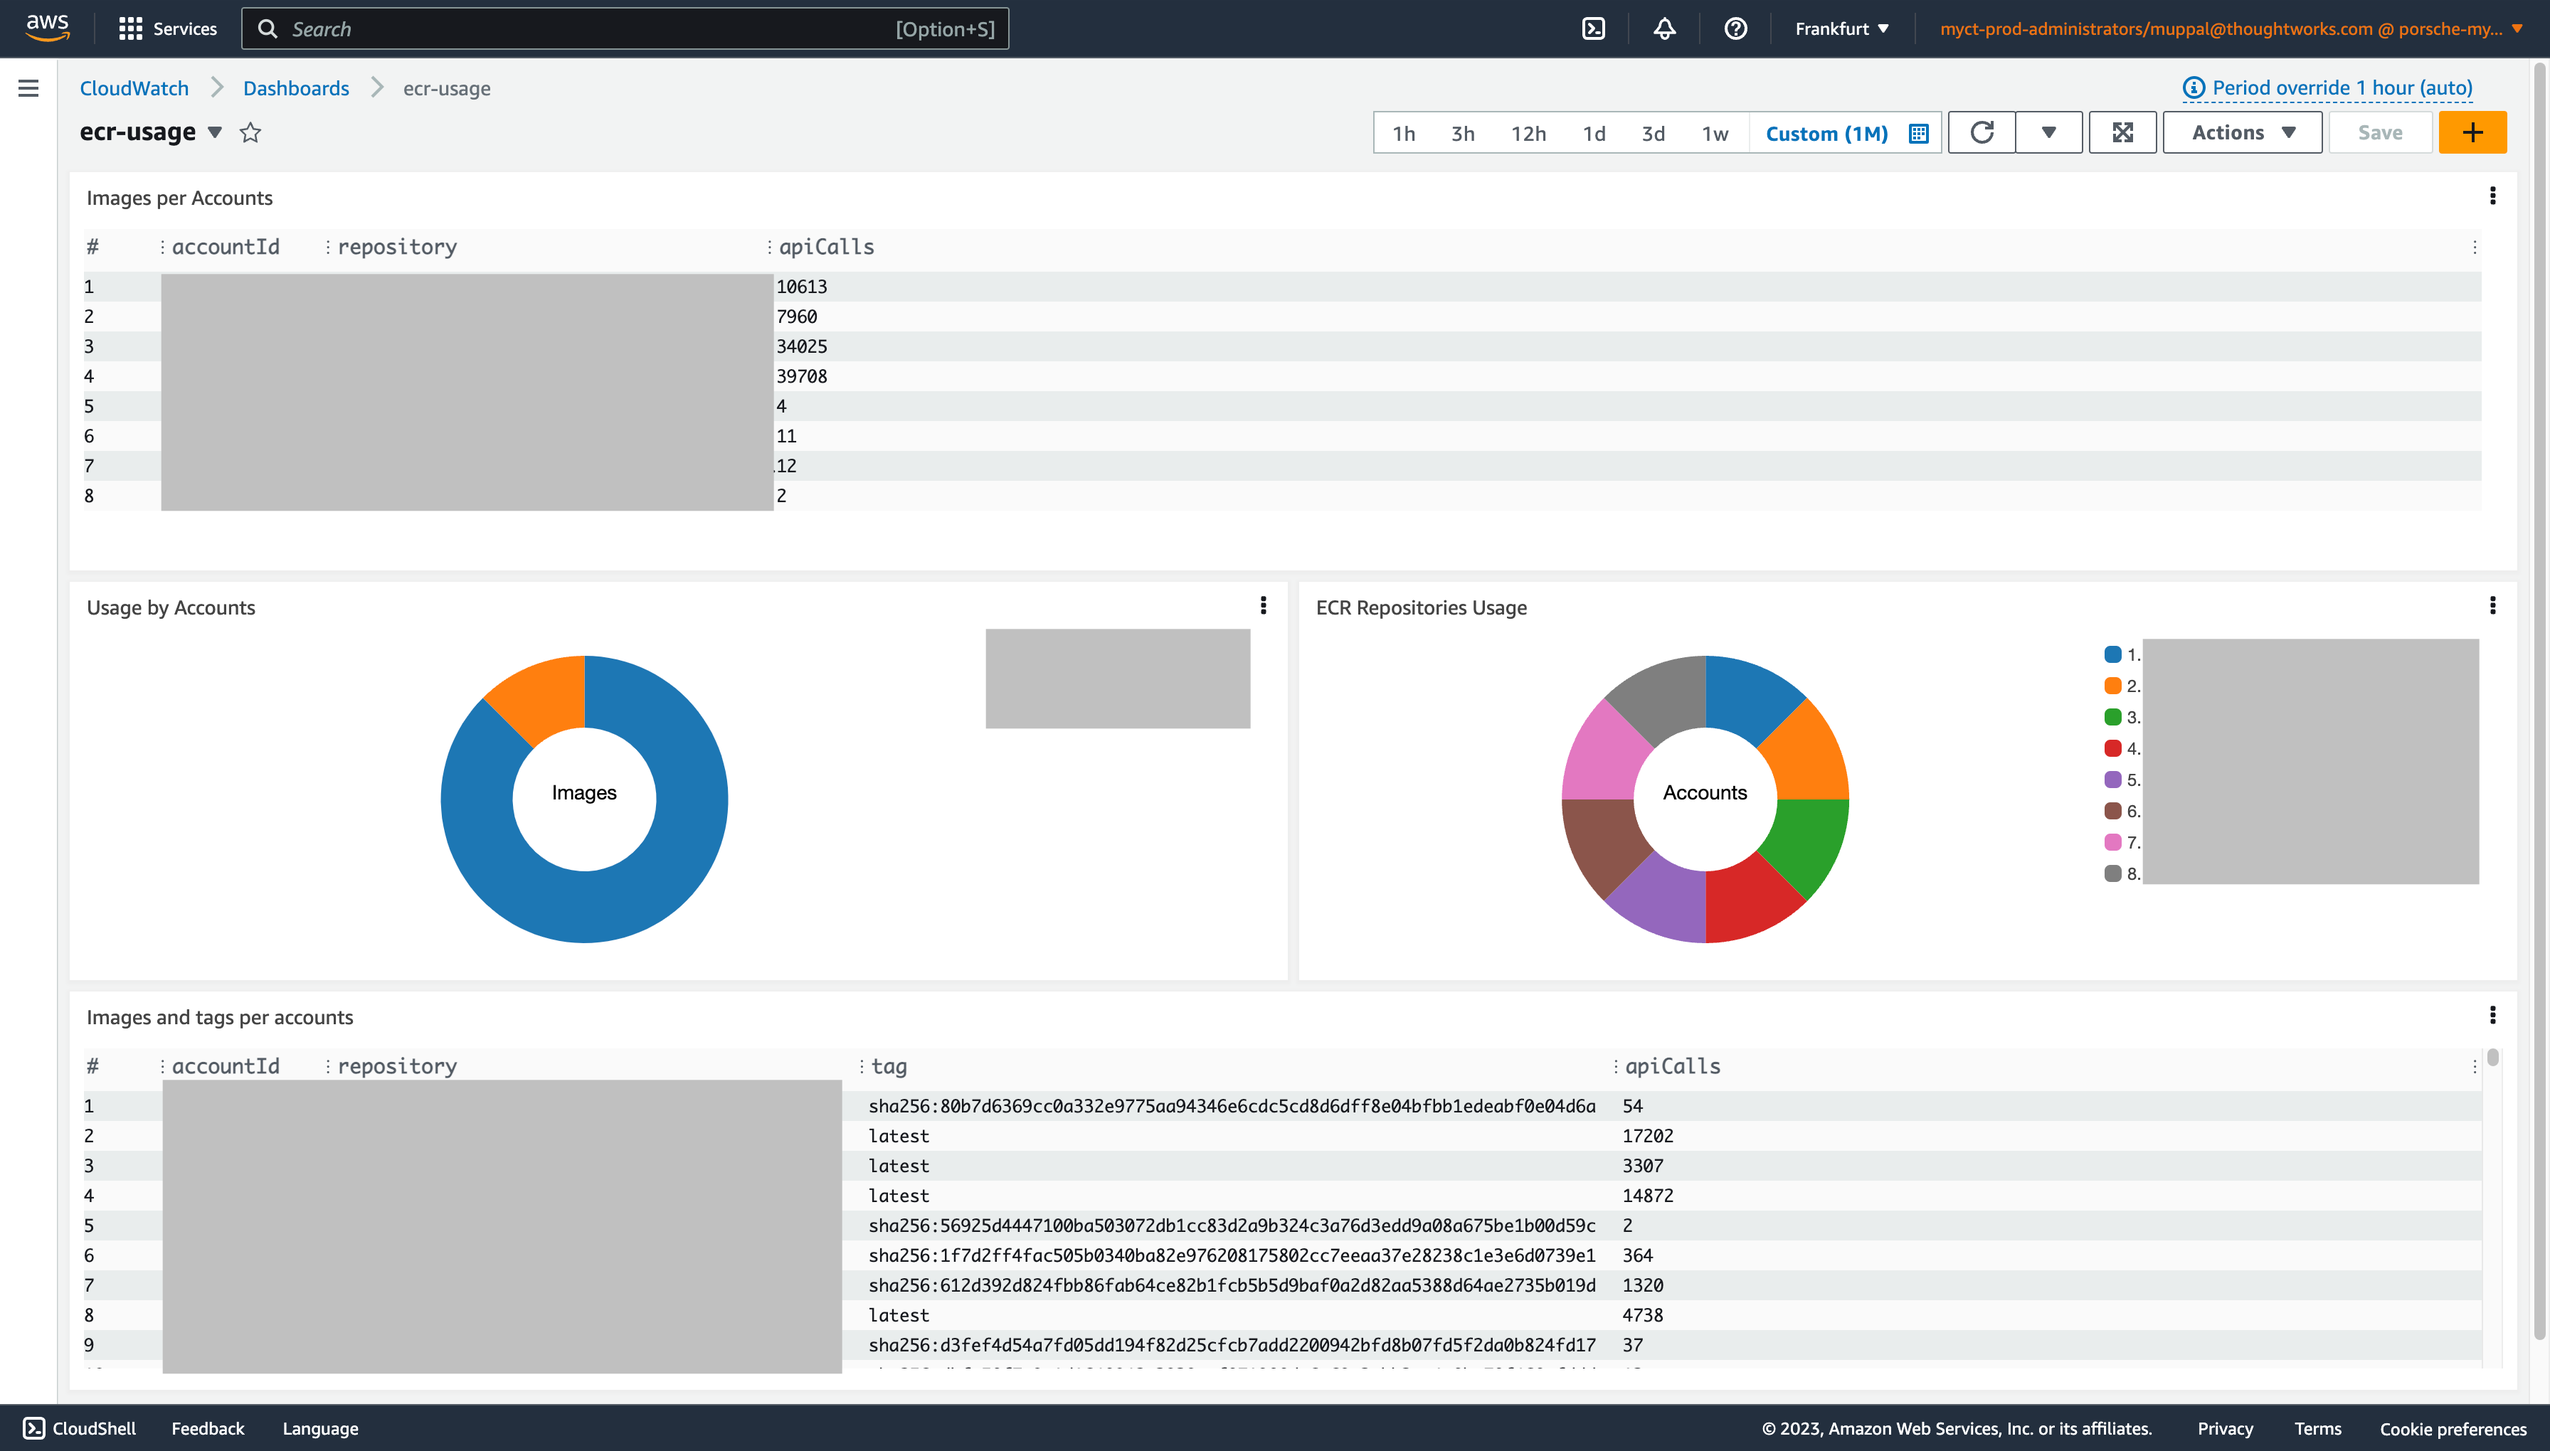
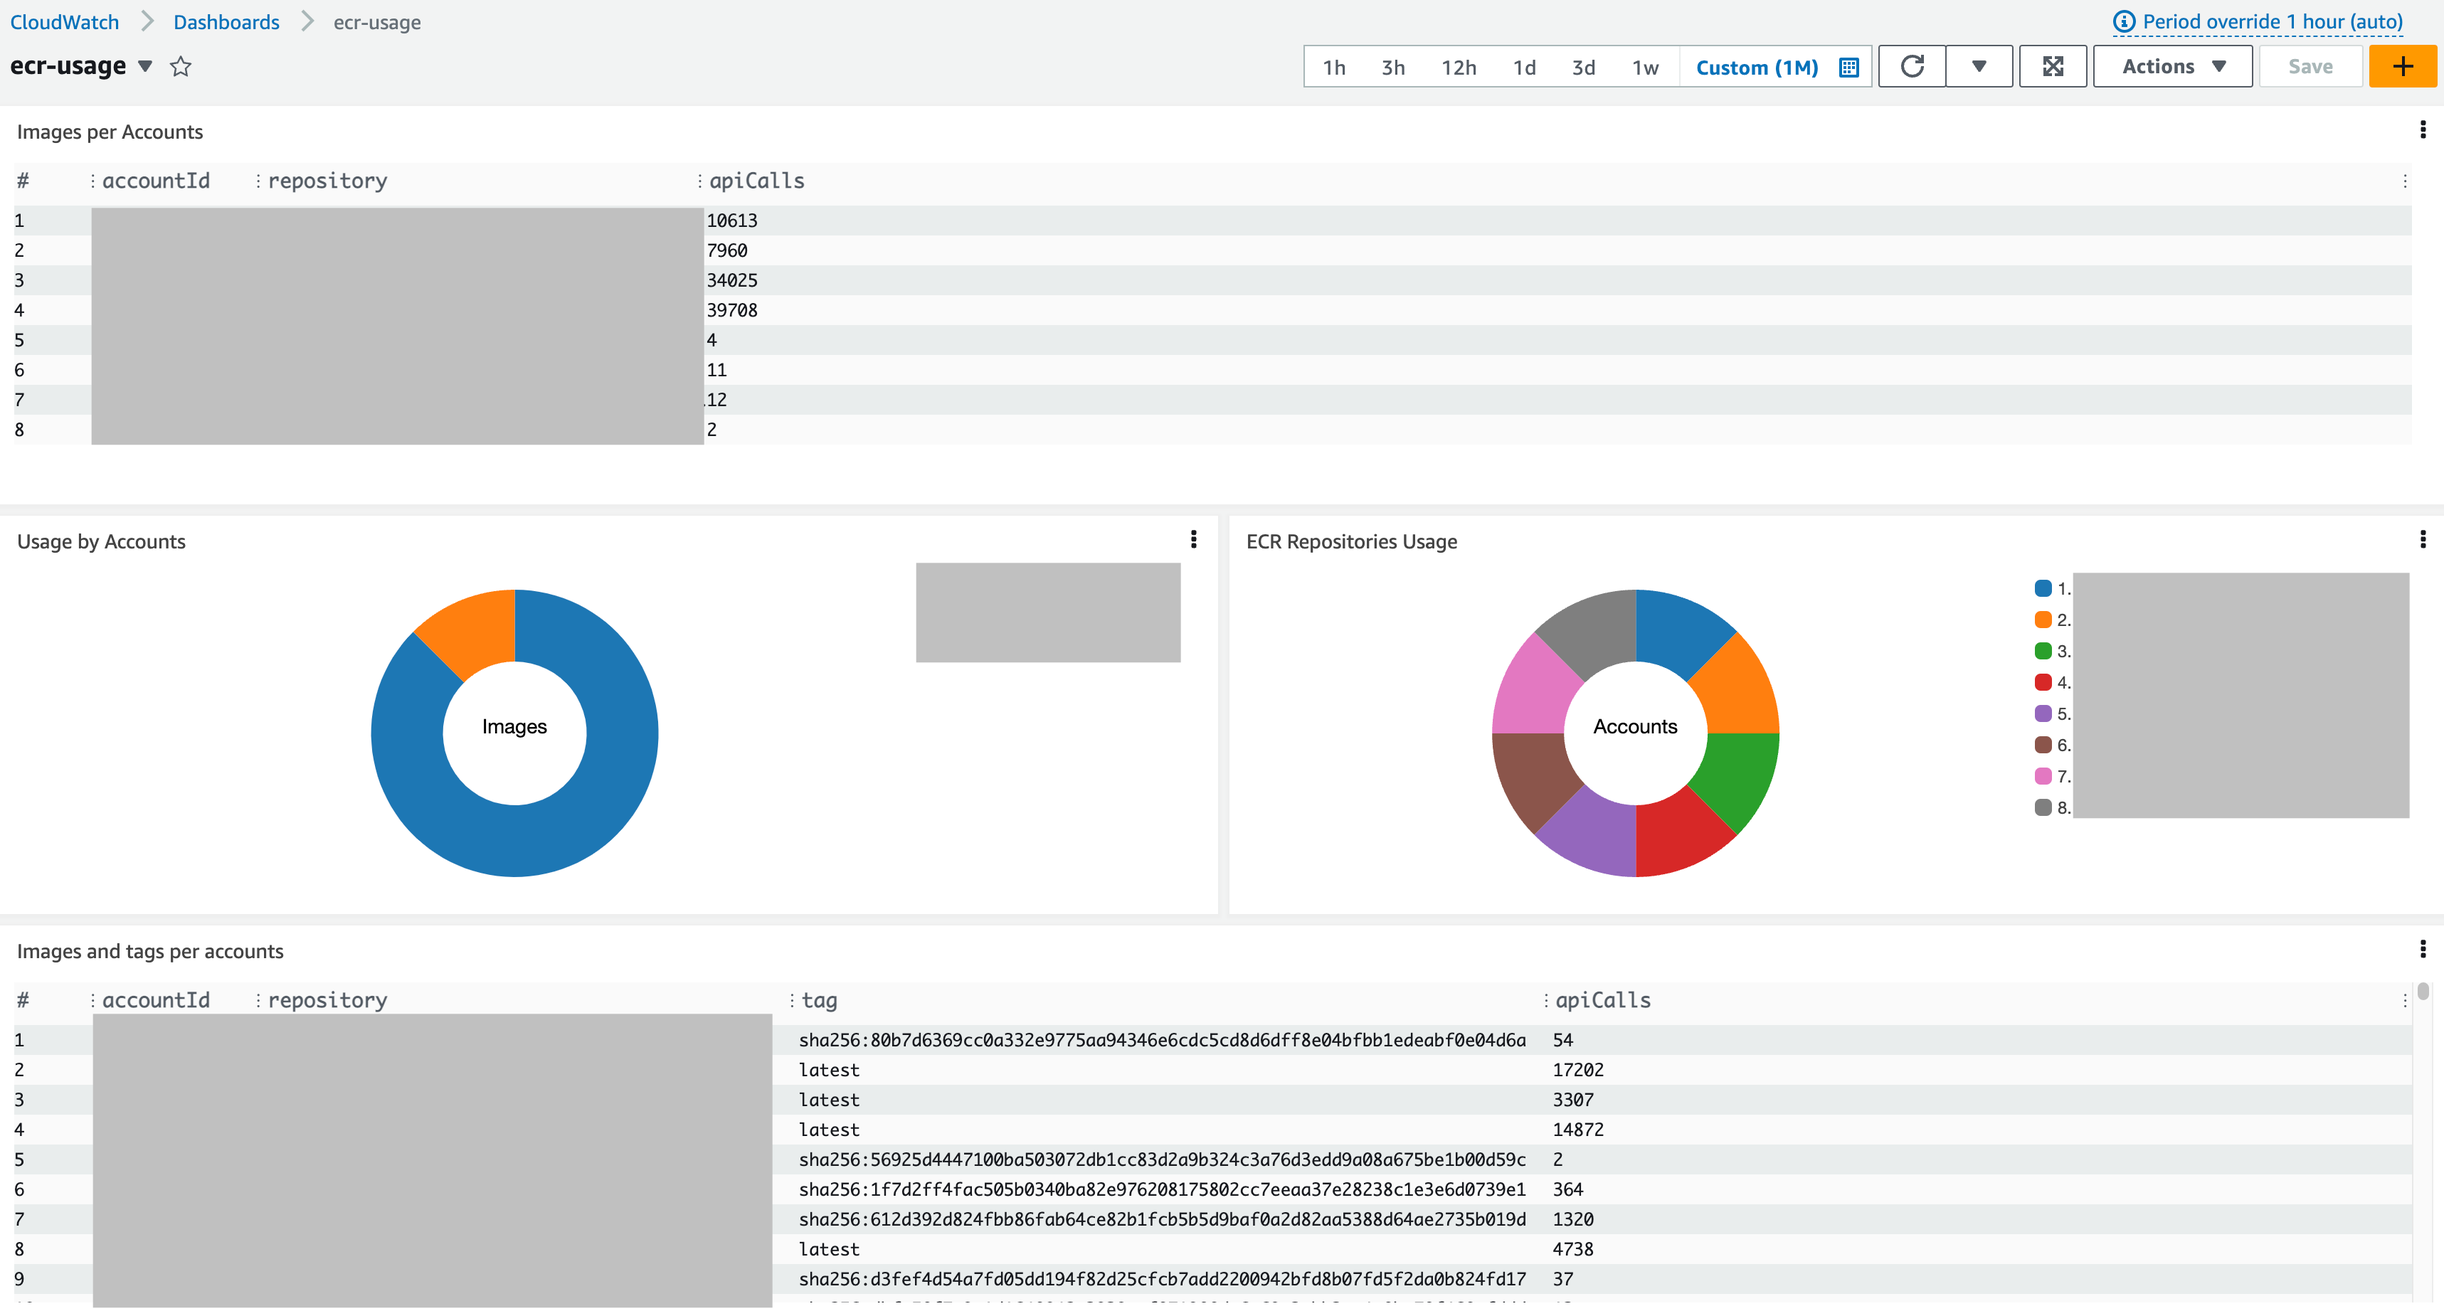
update and link the dashboard image in the readme

diff --git a/README.md b/README.md
@@ -10,6 +10,8 @@ The Cloudwatch Dashboard includes the following widgets:
   * ECR Repositories Usage
   * Images and tags per accounts
 
+<img src="https://github.com/porscheofficial/ecr-watch/blob/main/images/ecr-watch.png?raw=true" />
+
 ## Usage
 ### Module call for ecr-watch
 
